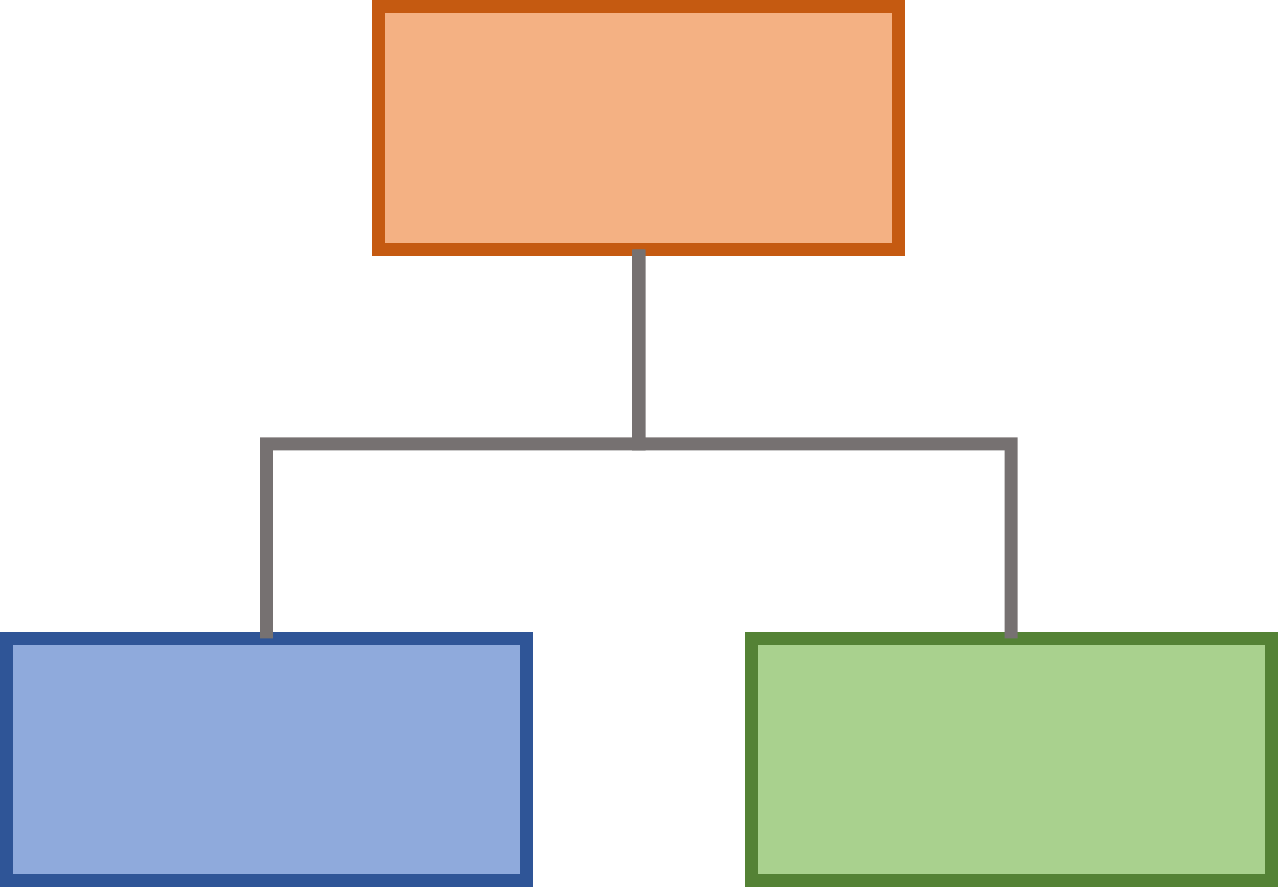
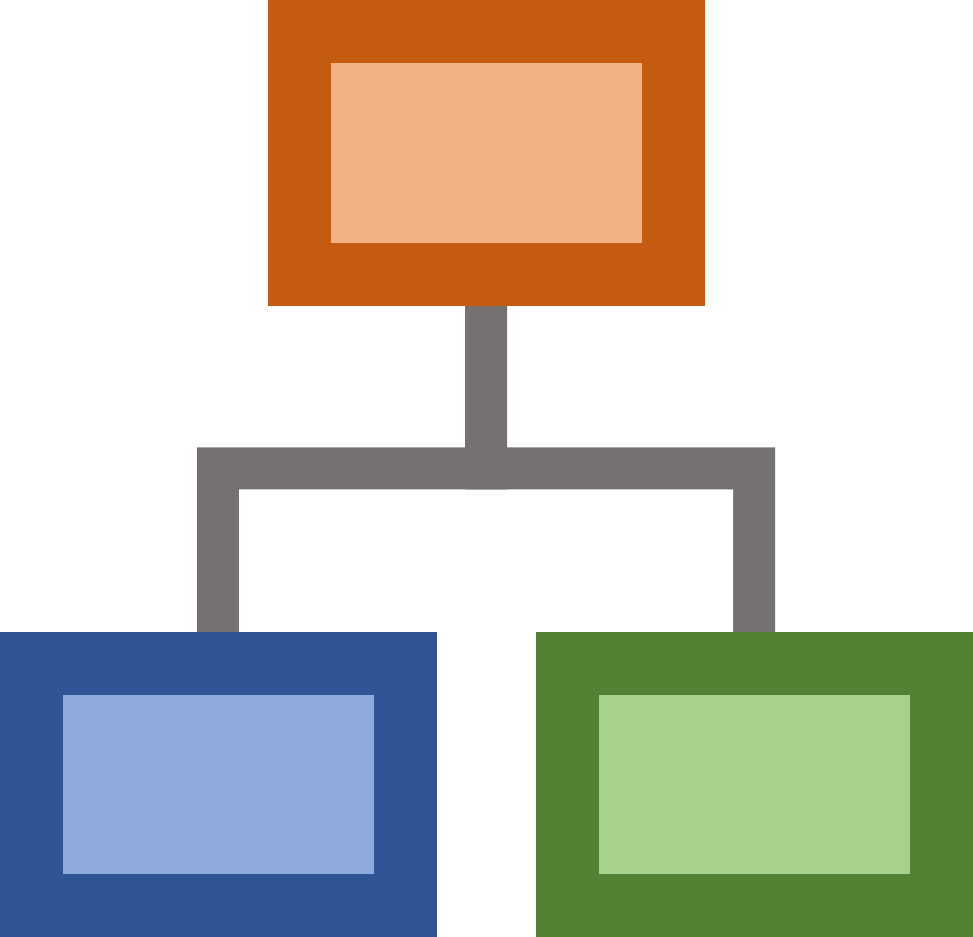
dbmsTree 아이콘 이미지 변경

Changed region(s): [[0.0, 0.0, 1.0, 1.0]]

diff --git a/dbms/src/main/resources/static/resources/css/dbms.css b/dbms/src/main/resources/static/resources/css/dbms.css
@@ -110,6 +110,25 @@ EasyUI
 	width: 30%;
 	overflow-y: hidden;
 }
+
+#dbmsTree {
+  -webkit-touch-callout: none;
+  -webkit-user-select: none;
+  -khtml-user-select: none;
+  -moz-user-select: none;
+  -ms-user-select: none;
+  user-select: none;
+}
+#dbmsTree .tree-schema {
+	background: url('/resources/img/tree-schema.png') no-repeat center/100%;
+}
+#dbmsTree .tree-schemaInfo {
+	background: url('/resources/img/tree_icons.png') no-repeat -208px 0;
+}
+#dbmsTree .tree-table {
+	background: url('/resources/img/tree-table.png') no-repeat center/90%;
+}
+
 #include {
 	border-top: 1px solid #95B8E7;
 }

diff --git a/dbms/src/main/java/com/project/dbms/sql/DbmsSQL.java b/dbms/src/main/java/com/project/dbms/sql/DbmsSQL.java
@@ -34,55 +34,22 @@ public class DbmsSQL {
 	@Value("${spring.datasource.url}")
 	private String url;
 	
-	// 전체 스키마 리스트 조회
-	public List<TreeDTO> allSchemas() {
-		// ID는 SCHEMA로 고정
-		String sql = "SELECT 'SCHEMA' AS ID, USERNAME AS TEXT, 'schema' AS iconCls "
-				+ "FROM ALL_USERS ORDER BY USERNAME";
-
-		List<TreeDTO> list = new ArrayList<TreeDTO>();
-		
-		Connection conn = null;
-		PreparedStatement pre = null;
-		ResultSet result = null;
-		
-		try {
-			Class.forName(driver);
-			conn = DriverManager.getConnection(url, userService.getSessionDbId(), userService.getSessionDbPw());
-			pre = conn.prepareStatement(sql);
-			result = pre.executeQuery();
-			TreeDTO tree;
-			while(result.next()) {
-				tree = new TreeDTO();
-				tree.setId(result.getString(1));
-				tree.setText(result.getString(2));
-				tree.setIconCls(result.getString(3));
-				list.add(tree);
-			}
-		} catch (Exception e) {
-			e.printStackTrace();
-		} finally {
-			if(result != null) try {conn.close();} catch(SQLException se) {}
-			if(pre != null) try {conn.close();} catch(SQLException se) {}
-			if(conn != null) try {conn.close();} catch(SQLException se) {}
-		}
-		
-		return list;
-	}
-
 	// 스키마 항목 카운트 조회
 	public TreeDTO schemaInfo(String owner, String objectType) {
 		String sql = "SELECT COUNT(*) FROM all_objects WHERE OWNER = ? AND OBJECT_TYPE = ?";
 		
 		TreeDTO tree = new TreeDTO();
+		tree.setIconCls("tree-schemaInfo");
 		
 		Connection conn = null;
 		PreparedStatement pre = null;
 		ResultSet result = null;
+		
 		if(objectType.equals("PVM")) {
 			tree.setId("PVM");
 			tree.setText("Pvm (4)");
 			tree.setState("closed");
+			
 			return tree;
 		}
 		try {

diff --git a/dbms/src/main/java/com/project/dbms/service/DbmsServiceImpl.java b/dbms/src/main/java/com/project/dbms/service/DbmsServiceImpl.java
@@ -30,10 +30,12 @@ public class DbmsServiceImpl implements DbmsService {
 	// 모든 스키마 정보 불러오기
 	@Override
 	public List<TreeDTO> getAllSchemas() {
+		// 세션이 없을때 null 리턴
 		if (userService.getSessionDbId() == null) {
 			return null;
 		}
-		return dbmsSQL.allSchemas();
+		//return dbmsSQL.allSchemas();
+		return dbmsMapper.allSchemas();
 	}
 
 	// 스키마 내부 항목 불러오기
@@ -84,6 +86,7 @@ public class DbmsServiceImpl implements DbmsService {
 	// 오브젝트 불러오기
 	@Override
 	public List<TreeDTO> objectInfo(ObjectDTO object) {
+		// 뒤에 붙은 S 빼고 보내기
 		object.setObject(object.getObject().substring(0, object.getObject().length() - 1));
 		return dbmsMapper.objectInfo(object);
 	}
